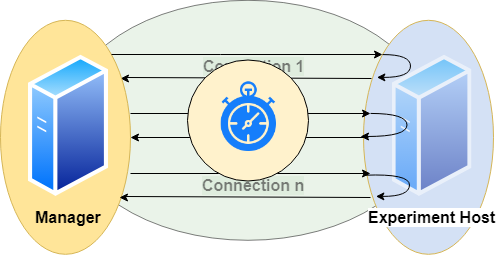
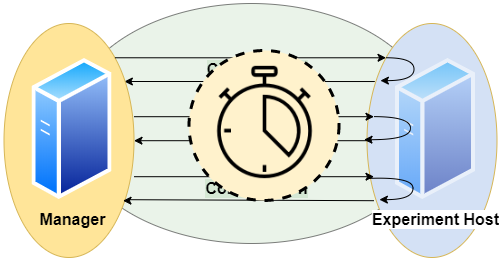
Docs: Concept Monitoring and new Benchmarking image

diff --git a/docs/Concept.md b/docs/Concept.md
@@ -140,8 +140,13 @@ In order to do so, result sets (or their hash value or size) are stored as lists
 
 ## Monitoring Hardware Metrics
 
-To make these metrics available, we must [provide](Options.md#connection-file) an API URL and an API Access Token for a Grafana Server.
+To make hardware metrics available, we must [provide](Options.md#connection-file) an API URL and an API Access Token for a Grafana Server.
 The tool collects metrics from the Grafana server with a step size of 1 second.
+
+<p align="center">
+<img src="Concept-Monitoring.png" width="320">
+</p>
+
 The requested interval matches the interval a specific DBMS is queried.
 To increase expressiveness, it is possible to extend the scraping interval by n seconds at both ends.
 In the end we have a list of per second values for each query and DBMS.
